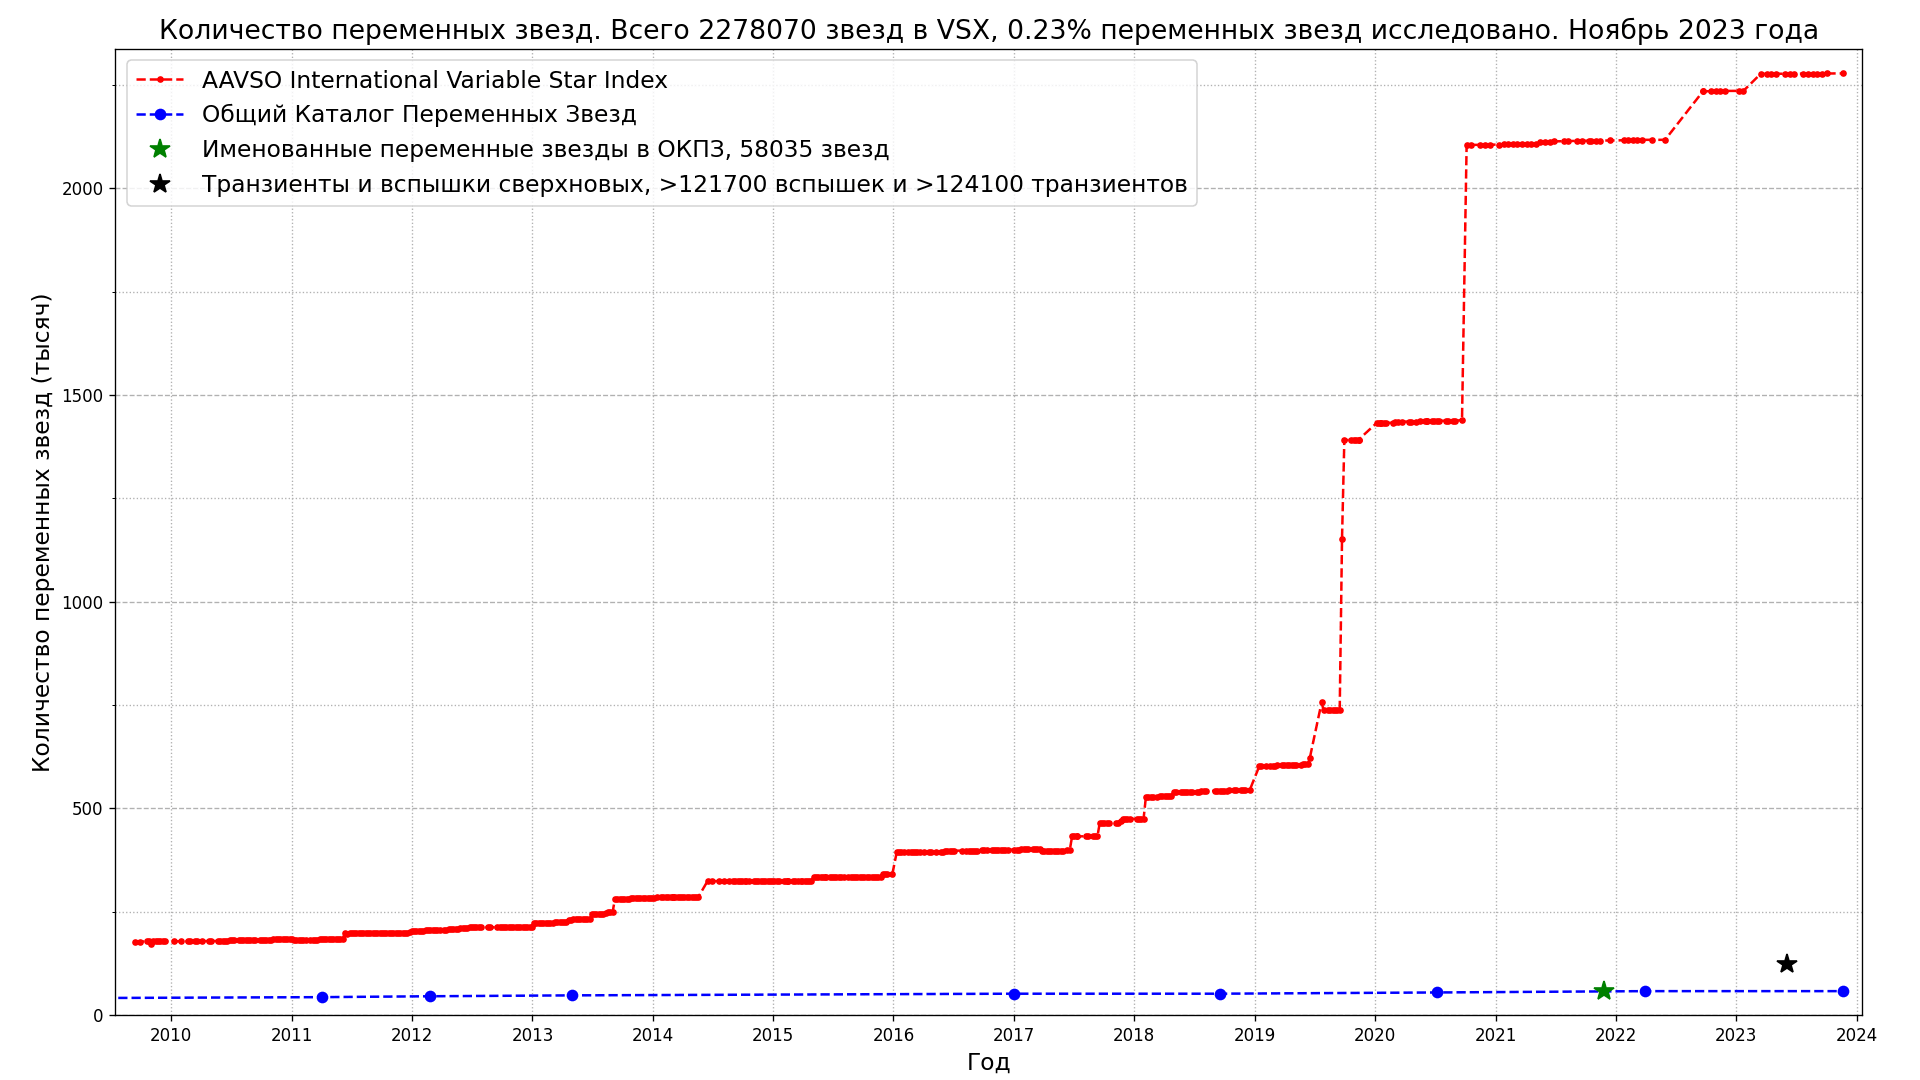
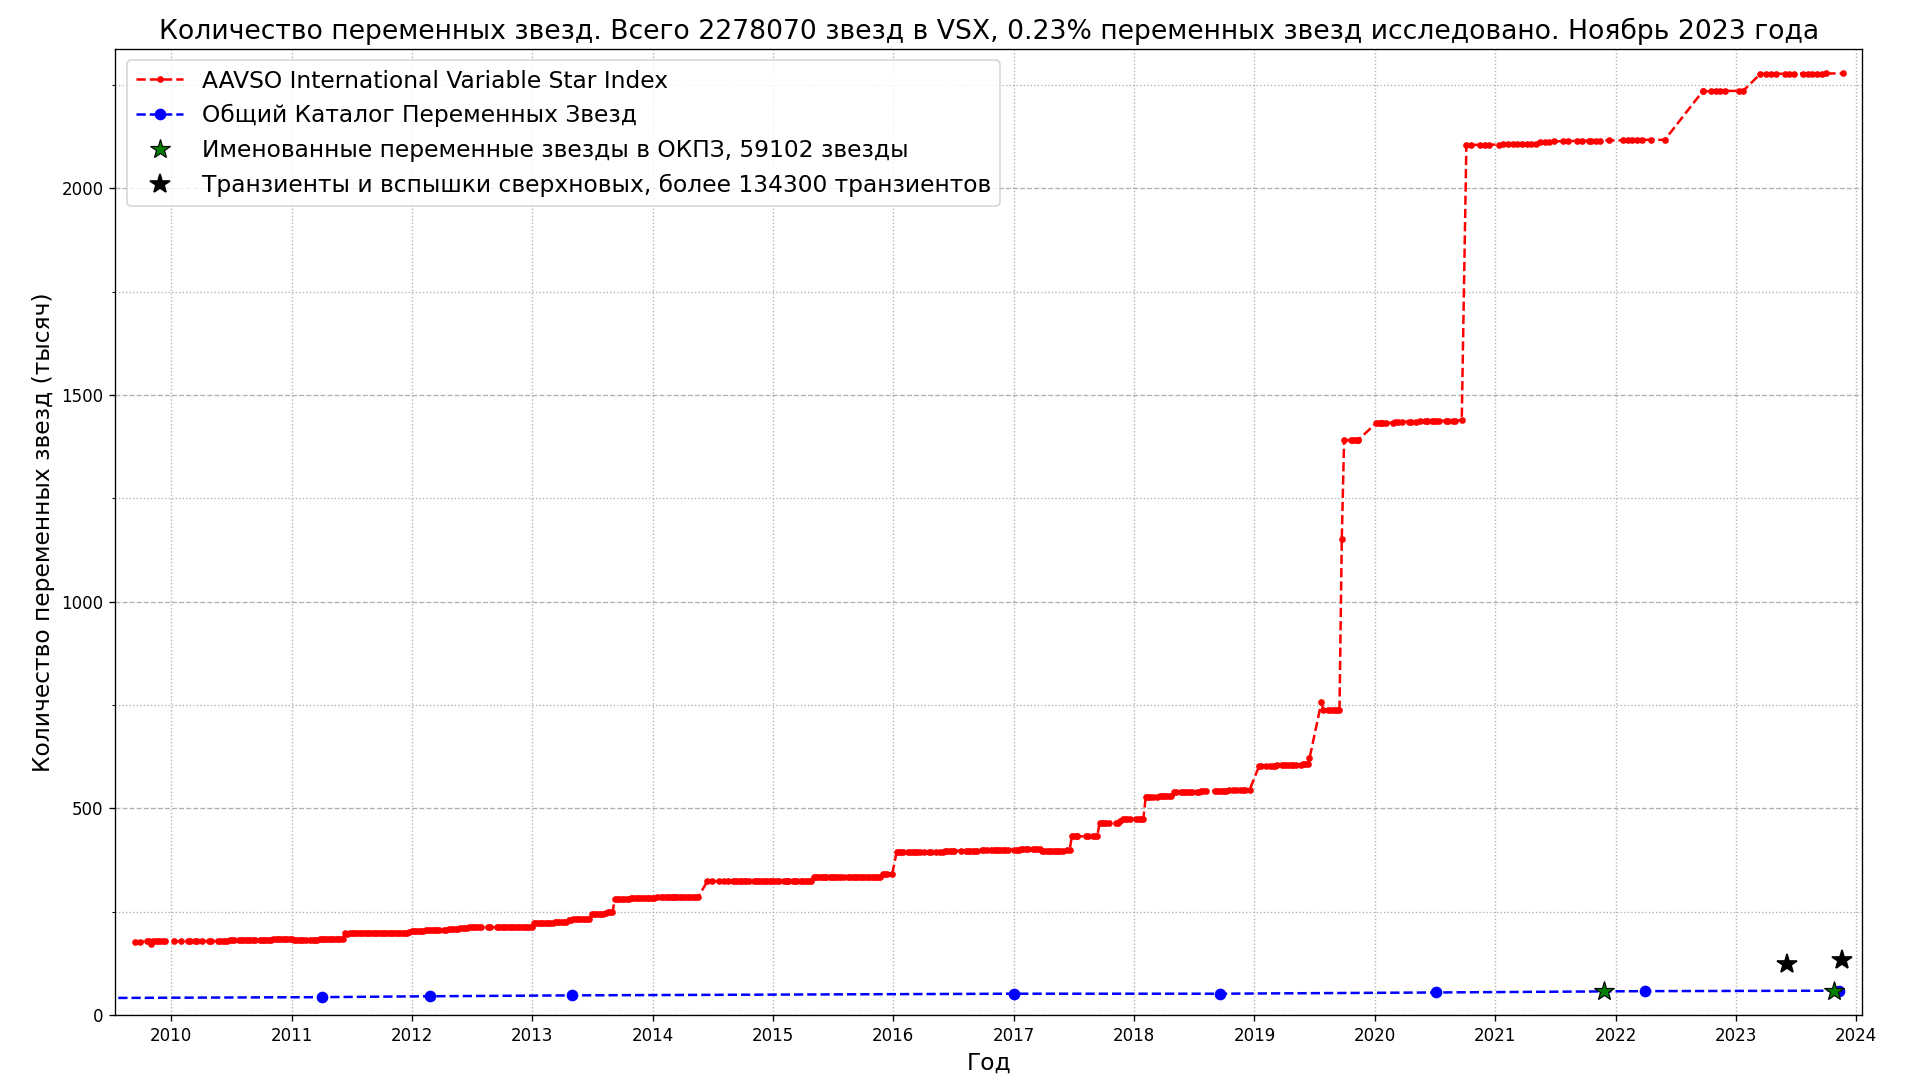
add data and reference

Changed region(s): [[0.3438, 0.1222, 0.625, 0.1833], [0.9375, 0.8861, 0.9688, 0.9472]]

diff --git a/src/astrodata/stars/plot_variable_stars_counts.py b/src/astrodata/stars/plot_variable_stars_counts.py
@@ -4,7 +4,10 @@ General Catalogue of Variable Stars (Samus+, 2007-2017)
 https://cdsarc.u-strasbg.fr/ftp/B/gcvs/ReadMe
 General catalogue of variable stars: Version GCVS 5.1, 2017ARep...61...80S
 The 84th Name-List of Variable Stars. Globular Clusters (Third Part) and Novae, 2021PZ.....41....7S
+Peremennye Zvezdy (Variable Stars) 41, No. 7, 2021
 http://www.astronet.ru/db/varstars/msg/eid/PZ-41-007
+The 85th Name-list of Variable Stars, Peremennye Zvezdy (Variable Stars) 43, No. 9, 2023
+http://www.astronet.ru/db/varstars/msg/1911622
 General Catalog of Variable Stars, 4th Ed. (GCVS4, Kholopov et al. 1985-1988): II/139B
 The fourth edition of the General Catalogue of Variable Stars supersedes the third edition
 (Kukarkin et al. 1969-1970: 20437 objects including 148 constant ones, resulting
@@ -164,8 +167,13 @@ plt.subplots_adjust(left=0.06, bottom=0.06, right=0.97, top=0.955)
 plt.plot(vsx_dates, vsx_nums, ".r--", label="AAVSO International Variable Star Index")
 plt.plot(gcvs_dates, gcvs_nums, "ob--", label="Общий Каталог Переменных Звезд")
 plt.plot(
-    [datetime(2021, 11, 26)], [58.035], "*g", ms=12,
-    label="Именованные переменные звезды в ОКПЗ, 58035 звезд",
+    [datetime(2021, 11, 26)], [58.035], "*g", ms=12, markeredgecolor="k", markeredgewidth=0.7,
+    # label="Именованные переменные звезды в ОКПЗ, 58035 звезд",
+)
+NAMED = 59102
+plt.plot(
+    [datetime(2023, 10, 25)], [NAMED/1000], "*g", ms=12, markeredgecolor="k", markeredgewidth=0.7,
+    label=f"Именованные переменные звезды в ОКПЗ, {NAMED} звезды",
 )
 plt.plot(
     [datetime(2023, 6, 4)], [124.100], "*k", ms=12,
@@ -204,8 +212,12 @@ plt.xlim(gcvs_dates[0] - td, today + td)
 plt.subplots_adjust(left=0.06, bottom=0.06, right=0.97, top=0.955)
 plt.plot(gcvs_dates, gcvs_nums, "ob--", label="Общий Каталог Переменных Звезд")
 plt.plot(
-    [datetime(2021, 11, 26)], [58.035], "*r", ms=12,
-    label="Именованные переменные звезды в ОКПЗ, 58035 звезд",
+    [datetime(2021, 11, 26)], [58.035], "*r", ms=12, markeredgecolor="k", markeredgewidth=0.7,
+    # label="Именованные переменные звезды в ОКПЗ, 58035 звезд",
+)
+plt.plot(
+    [datetime(2023, 10, 25)], [NAMED/1000], "*r", ms=12, markeredgecolor="k", markeredgewidth=0.7,
+    label=f"Именованные переменные звезды в ОКПЗ, {NAMED} звезды",
 )
 plt.title(
     f"Количество переменных звезд. Всего {vsx_vars} объектов в VSX и {int(gcvs_nums[-1] * 1000)} в ОКПЗ. "
